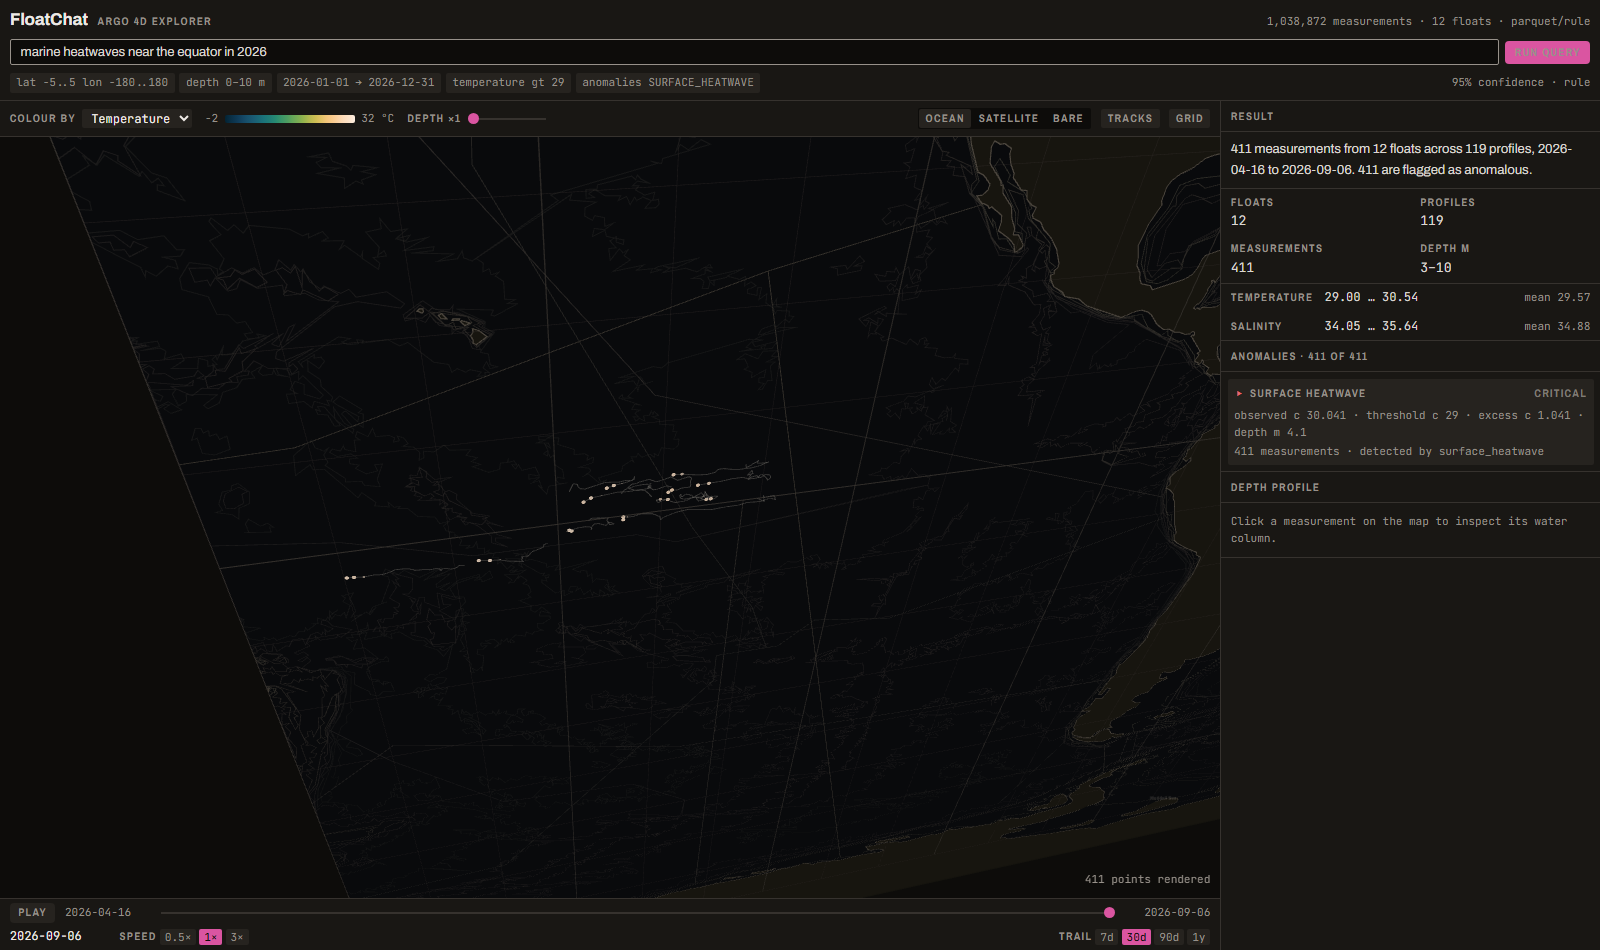
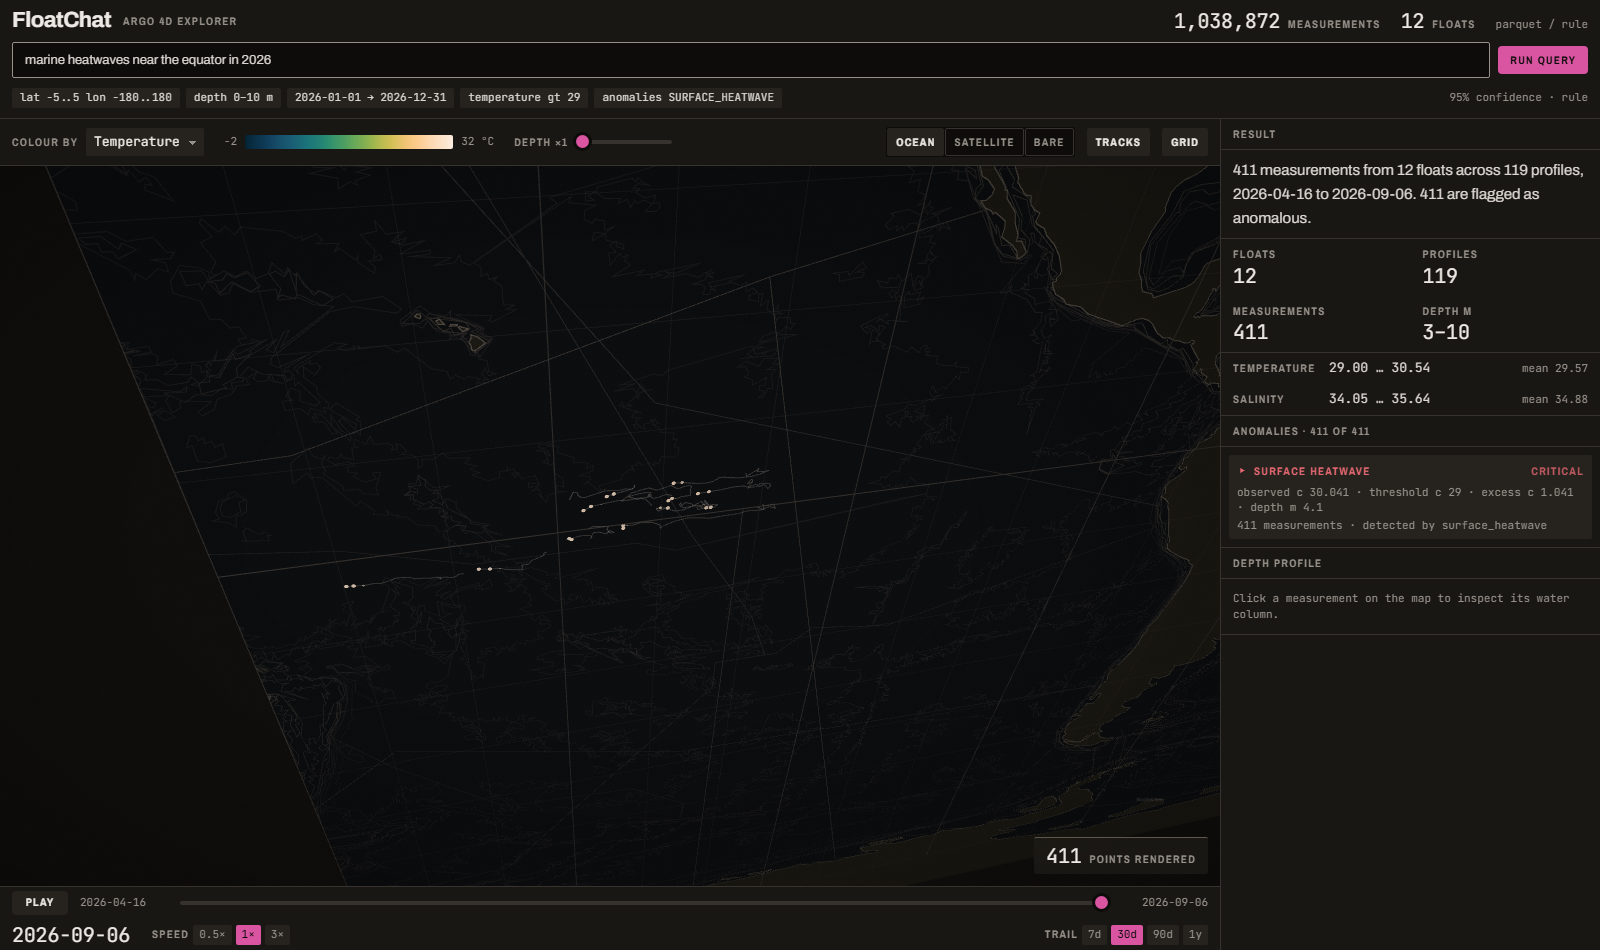
docs: add polish skill and screenshot harness, record P1
scripts/shoot.mjs renders the running app at 1920x1080, the agreed
capture target, and reports which fonts actually loaded. A visual change
that is never looked at is not verified by anything the other gates do.

.claude/skills/polish encodes the workflow: required reading, the
tokens-only / no-fetch-in-components / barrel-imports / never-hand-edit-
generated / transform-and-opacity rules, the shoot-look-iterate loop, and
the verify couplings a restyle can silently break.

PROGRESS and the polish plan record P1 as built, the three answered
questions, two deliberate divergences, and the finding P1 could not fix:
the demo query puts 411 points in a viewport framed for the whole east
Pacific, so the canvas is two-thirds empty and the new atmosphere has
nothing to act on. That is P3's camera problem.

diff --git a/.claude/skills/polish/SKILL.md b/.claude/skills/polish/SKILL.md
@@ -1,0 +1,134 @@
+---
+name: polish
+description: Make a visual change to the FloatChat frontend and verify it by actually looking at it. Use for any work on how the UI looks or feels — restyling a component, adding a layout or motion treatment, adjusting type, spacing, colour or the canvas atmosphere, working through a UI_POLISH_PLAN.md phase, or when asked to make a screen look better, more legible, or ready to record. Also use when a visual change has been made but not yet seen.
+---
+
+# Frontend visual work
+
+A visual change is not done when it compiles. It is done when you have looked at a
+screenshot of it and the gates pass. `tsc`, `next build` and a lit-pixel count cannot
+tell you that a panel is ugly, that a number is set two points too small, or that an
+overlay is swallowing clicks.
+
+## Required reading, before the first edit
+
+Read these in order. Do not skip them because a change looks small — every rule below
+comes from one of them, and the arguments matter more than the values.
+
+| File | What it settles |
+|---|---|
+| `DESIGN.md` | **Authoritative.** The aesthetic argument: why the neutrals are warm, why chrome is never blue, what glass is for, what motion is allowed. Every value has a stated reason; if you are about to contradict one, you need an ADR, not a preference. |
+| `frontend/design/tokens.ts` | The values themselves, and the only source of them. Mirrors `DESIGN.md` by hand. |
+| `UI_POLISH_PLAN.md` | The phase list, the decisions already made with the user (§4.1), and §3 — every place the existing code will fight a change. Read §3 before editing; it is a list of traps that have already been paid for once. |
+| `PROGRESS.md` | Which phase is current and what is actually verified. |
+
+Read `docs/extension-guide.md` too if the change adds a layer, colormap or theme.
+
+## The organising idea
+
+**Austere instrument, cinematic canvas.** The chrome is a flat, warm, matte instrument
+housing. The WebGL viewport is a hole cut in it, and the water inside is atmospheric —
+glow, grain, vignette, additive blending, camera motion. The boundary between the two
+is the whole visual argument.
+
+Practically, this decides most questions on its own:
+
+- Glow, grain, vignette and additive blending belong **inside the canvas only**.
+  Applying any of them to a panel is the single most damaging mistake available here.
+- Glass is a **boundary** material, permitted only on surfaces that sit **over the
+  canvas**, because what shows through them is the ocean. Never on the inspector, a
+  `Panel`, a readout grid or the header.
+- **No blue, teal or green in the chrome, ever.** Those hues are reserved for data
+  encoding. A blue pixel always means a measurement; a blue button would make the user
+  learn which blues mean something.
+
+## Hard rules
+
+These are from `CLAUDE.md` and are not style preferences. Nothing in this repo
+mechanically enforces most of them — there is no ESLint config in `frontend/` — so they
+hold only if you hold them.
+
+1. **Tokens only.** No hardcoded colour, spacing or type size in a component. Colours
+   come from `var(--color-*)`, type from a `text-*` utility, spacing from the 4px grid.
+   `text-[13px]`, `#DA55A1` and `p-[7px]` in a component are all bugs. If a value you
+   need does not exist, add it to `frontend/design/tokens.ts`, run `npm run theme`, and
+   use the generated utility — do not inline it "just here".
+2. **No `fetch` in a React component.** All network access goes through
+   `frontend/lib/api/client.ts`. The layering is `components → hooks → lib/api →
+   transport`, one-directional.
+3. **Features import each other only through `index.ts`.** A file in `features/map/`
+   may use `features/anomalies` only via `@/features/anomalies`, never by reaching into
+   its `components/` or `hooks/`. If the barrel does not exist yet, add it.
+4. **Never hand-edit generated files.** `frontend/types/argo.ts` and
+   `backend/app/schemas/argo.py` are generated from `contracts/*.schema.json` — use
+   `/sync-contracts`. `frontend/app/theme.generated.css` and `app/fonts.generated.css`
+   are generated by `scripts/build-theme.mjs` and `scripts/fetch-fonts.mjs` — edit
+   `design/tokens.ts` and regenerate.
+5. **Animate `transform` and `opacity` only.** Never `width`, `height`, `top`, `left`,
+   `box-shadow` or an SVG path length. Those animate on the main thread, and stuttering
+   chrome undermines the product's central claim — 60k points at 60fps — in the most
+   visible way available. Motion must explain a causal relationship; decoration does
+   not ship (ADR 0005). Reduced motion must land on the **final** state, never a
+   half-played one, and JS-driven motion must check `prefersReducedMotion()` itself
+   because the CSS blanket rule cannot reach it.
+
+## The loop
+
+Both servers must be running: backend on :8000, frontend on :3000.
+
+```
+make dev-backend                 # or: backend/.venv/Scripts/python -m uvicorn app.main:app --port 8000 --app-dir backend
+cd frontend && npm run dev
+```
+
+Then, for each change:
+
+1. **Shoot first, for a baseline.** `npm run shoot -- before`
+2. Make **one** coherent change.
+3. `npm run shoot -- <label>` and **read the PNG**. Actually look at it. Name what is
+   wrong with it before deciding it is fine — "it built" is not a review.
+4. Iterate on 2–3 until the frame is right, not until the code is written.
+
+`scripts/shoot.mjs` renders at **1920×1080**, the agreed capture target for the demo
+recording. Do not review composition at another size: the 380px inspector's fold lands
+somewhere different at every width. It also reports which fonts actually loaded — a
+frame that silently fell back to Arial looks plausible and is wrong.
+
+## Ending a run — both steps, every time
+
+1. **Take a final screenshot and look at it.** `npm run shoot -- after`
+2. **Run the gates.**
+
+```
+cd frontend && npm run typecheck && npm run build && npm run verify
+```
+
+`npm run verify` must report **18/18**. It counts its checks dynamically, so 18/18
+means adding none and removing none — a new check is a deliberate conversation with the
+user, not a side effect of a polish change.
+
+Three of its checks are easy to break from a visual change, and `UI_POLISH_PLAN.md`
+§3.5 lists every coupling in full:
+
+- **Every overlay over the canvas must be `pointer-events: none`.** `verify` scans the
+  WebGL framebuffer for a lit pixel and then clicks those coordinates through the DOM.
+  An overlay that swallows the click kills picking, and selection with it.
+- **No DOM overlay may tint the canvas.** The scan reads the framebuffer, the click
+  goes through the DOM; a tinting overlay desynchronises them.
+- **Keep these strings verbatim**: the `Natural language query` and `Time cursor`
+  aria-labels, the `Play through time` aria-label, the `Basemap style` group role and
+  its exact `Ocean` / `Satellite` / `Bare` button text, and the backend's
+  `summary.answer` rendered as plain selectable text.
+- **Zero console errors.** A React key warning, a deck.gl parameter warning or a 404 on
+  a font all fail the run.
+
+If a gate fails, report the actual output. Do not describe the work as done.
+
+## Committing
+
+Per `CLAUDE.md` you have standing authorization to push, but only when a phase gate
+passes or a coherent piece of work is finished and boots. A sweep that touches every
+component at once is the highest-regression-risk change available here — commit it
+**separately** from the feature work around it so a visual regression stays bisectable.
+
+Scope the commit `design`, `map`, `search`, `timeline` or `inspector`.

diff --git a/PROGRESS.md b/PROGRESS.md
@@ -6,10 +6,10 @@ anything. If you are a fresh session: read this, then `CLAUDE.md`, then `IMPLEME
 
 **Status:** P1–P7 + P9 complete. Full vertical slice runs end to end on real data.
 Now in a **frontend-only UI polish pass** for a recorded demo — plan and phase list in
-`UI_POLISH_PLAN.md`. **P0 done** (design direction + motion reversal, ADR 0005); **P1 next**
-(glass HUD chrome, canvas grain + vignette, tabular numerals, query loading state, and the
-token-driven type/spacing sweep agreed as `UI_POLISH_PLAN.md` §3.3 option (a)).
-**Last updated:** 2026-09-18, after UI polish P0 (see `BUILD_STATUS.md`)
+`UI_POLISH_PLAN.md`. **P0 and P1 done**; **P2 next** (the parse ribbon — word-level
+highlighting via a frontend phrase gazetteer, §4.1 decision 4, with the three containment
+rules in §5.3).
+**Last updated:** 2026-09-18, after UI polish P1 (see `UI_POLISH_PLAN.md` §6)
 
 **Verified ready:** backend venv installed · 12 real ARGO floats cached locally · demo query
 confirmed to return real results · `backend/data/{raw,.venv}` confirmed gitignored ·
@@ -17,9 +17,11 @@ confirmed to return real results · `backend/data/{raw,.venv}` confirmed gitigno
 
 **Network needed?** Backend: **no** — all Python deps are installed and all ARGO data is cached
 locally. Frontend: **yes, once** — `npm install` must fetch Next.js, deck.gl and React from the
-registry (verified reachable), and `npm run basemap` fetches the Natural Earth / NASA basemap
-assets. Both outputs are committed, so after they complete the whole build is offline-capable.
-The map draws no tiles at runtime — see `docs/adr/0004-offline-basemap.md`.
+registry (verified reachable); `npm run basemap` fetches the Natural Earth / NASA basemap
+assets and `npm run fonts` fetches the three type families. All three outputs are committed, so
+after they complete the whole build is offline-capable. The map draws no tiles at runtime (see
+`docs/adr/0004-offline-basemap.md`) and **the fonts are self-hosted as of UI polish P1** — the
+`fonts.googleapis.com` import is gone, so there is now no runtime network dependency at all.
 
 ---
 
@@ -33,7 +35,7 @@ Do not reopen these. They were decided with the user and are settled.
 | Sample data | **Equatorial Pacific (Niño 3.4 box)** | 5°S–5°N, 170°W–120°W. Makes the "marine heatwaves near the equator" example query in `PROJECT_CONTEXT.md` return real hot water. |
 | Build order | **Vertical slice first** | One query end-to-end (type → search → map dots → one chart) before deepening any layer. Every stopping point must be demonstrable. |
 | Theme scope | **Dark only** | Per `DESIGN.md`. No light or colorblind-safe theme this pass. |
-| Design system | **Chart Room** | `DESIGN.md` is authoritative and lints clean. `frontend/design/tokens.ts` derives from it — **by hand**: there is no generator, and no `tailwind.config.ts`. The DOM's palette is the `@theme` block in `globals.css`, a second hand-maintained copy. Change a colour in all three or in none. |
+| Design system | **Chart Room** | `DESIGN.md` is authoritative and lints clean. `frontend/design/tokens.ts` derives from it **by hand** — that step is still manual, and there is no `tailwind.config.ts` (this is Tailwind v4). Everything downstream of `tokens.ts` is **generated**: `scripts/build-theme.mjs` writes `app/theme.generated.css` (the `@theme` block, the type scale, the spacing base and the semantic utilities). The palette is no longer duplicated by hand — change it in `DESIGN.md` and `tokens.ts`, then `npm run theme`. |
 | Theme direction | **Austere instrument, cinematic canvas** | Chrome stays flat, warm, matte; glow/grain/vignette/additive belong inside the WebGL viewport only. Glass is permitted at the boundary alone. The no-blue-chrome rule survives. |
 | Motion | **Explanatory only** | Replaced the "don't animate the interface" rule. Motion must explain a causal relationship; decoration does not ship. `transform`/`opacity` only. See ADR 0005. |
 
@@ -142,7 +144,8 @@ passes** — never mark one done on assumption.
 ### Verified
 
 - **78 backend tests green**, ruff clean, `tsc --noEmit` clean, `next build` succeeds.
-- **`npm run verify` 18/18** in a real browser, including no console errors, after the basemap.
+- **`npm run verify` 18/18** in a real browser, including no console errors, after the basemap
+  and again after UI polish P1 — picking still works through the new canvas overlays.
 - **Basemap costs no frame time**: 60k points hold 59.9 fps in all three styles, measured
   against a `PERF_BASEMAP=Bare` control. See `BUILD_STATUS.md`.
 - Both providers pass the *same* 14-test contract suite. `DATA_PROVIDER=netcdf` serves
@@ -170,15 +173,27 @@ passes** — never mark one done on assumption.
 
 **Next actions, highest value first:**
 
-1. Optional depth: aggregation modes (`by_float`, `by_time_bucket`) are in `QuerySpec`
+1. **UI polish P2 — the parse ribbon.** `UI_POLISH_PLAN.md` §2 P2 and §5.3. Needs
+   `features/search/index.ts` (barrel) and `features/search/lib/attributeSpec.ts`.
+2. **UI polish P3 — camera choreography and additive blending.** This is the one that
+   fixes the frame: the demo query returns 411 points into a viewport framed for the
+   whole east Pacific, so two-thirds of the canvas is empty and P1's grain and vignette
+   have nothing to act on. See `UI_POLISH_PLAN.md` §6. Requires hoisting `viewState` out
+   of `MapCanvas` into the view store (§3.7).
+3. Optional depth: aggregation modes (`by_float`, `by_time_bucket`) are in `QuerySpec`
    but the engine ignores them; `list_floats` ignores its spec argument.
-2. Optional: a light theme, deliberately skipped this pass.
-3. Optional: frontend unit tests around the hooks layer.
+4. Optional: a light theme, deliberately skipped this pass.
+5. Optional: frontend unit tests around the hooks layer.
 
 Nothing is blocked. All plan gates that were defined are now met or explicitly skipped
 with an ADR.
 
-Working tree clean. Both servers were left running on :8000 and :3000.
+**Gotcha, cost time once:** never run `npm run build` while `next dev` is running. They
+share `frontend/.next`, and the build leaves the dev server serving 500s with
+`__webpack_modules__[moduleId] is not a function`. Stop dev, build, then restart dev —
+or the gates fail for a reason that has nothing to do with the code.
+
+Both servers were left running on :8000 and :3000.
 
 ## Push protocol
 

diff --git a/UI_POLISH_PLAN.md b/UI_POLISH_PLAN.md
@@ -476,16 +476,13 @@ change. Questions 5–7 remain open and do not block P0.
 | 3 | Sweep hardcoded type sizes and spacing onto token-driven utilities in P1? | **Yes.** §3.3 option (a). |
 | 4 | Parse-ribbon fidelity | **Word-level highlighting via a frontend phrase gazetteer.** §3.6 option (b) — chosen with the duplication cost understood. |
 
-### 4.2 Still open — not blocking
+### 4.2 Answered before P1
 
-5. **§3.2 — may I generate the `@theme` CSS block from `tokens.ts`** so the palette stops
-   existing in two hand-maintained places?
-
-6. **§3.9 — may I self-host the fonts?** Strongly recommended given the deliverable is a video.
-
-7. **Capture target.** Resolution and aspect for the recording — 1920×1080 or something taller?
-   It changes whether the 380px inspector and the anomaly panel fit above the fold, which
-   affects P1's layout decisions.
+| # | Question | **Decision** |
+|---|---|---|
+| 5 | §3.2 — generate the `@theme` CSS block from `tokens.ts`? | **Yes.** `scripts/build-theme.mjs` imports `design/tokens.ts` directly (Node 24 strips TS types) and writes `app/theme.generated.css`. The palette no longer exists in two hand-maintained places, and the P1 type scale, spacing base and glass values are single-source from the start. Runs automatically before `npm run dev` and `npm run build`. |
+| 6 | §3.9 — self-host the fonts? | **Yes.** `scripts/fetch-fonts.mjs` writes `public/fonts/` + `app/fonts.generated.css`. Archivo and Archivo Narrow are variable fonts, so 400 and 700 share one file: **three files, 83 KB, latin subset only**. The `fonts.googleapis.com` import is gone and the build has no runtime network dependency at all. |
+| 7 | Capture target | **1920×1080.** `scripts/shoot.mjs` renders at exactly this and nothing else — composition reviewed at another width is a frame that will never be recorded. Note `verify-ui.mjs` still uses 1600×950; that is its own fixture and was deliberately left alone. |
 
 ---
 
@@ -566,3 +563,58 @@ contradiction to record.
 ### 5.5 Ready to start
 
 P0 is unblocked. Questions 5–7 do not gate it; I will raise 7 again before P1's layout work.
+
+---
+
+## 6. P1 as built
+
+Shipped. `npm run verify` **18/18**, `tsc` clean, `next build` clean, screenshots in
+`frontend/verification/shots/`.
+
+What landed beyond the file list in §2:
+
+- **`scripts/build-theme.mjs`** and **`scripts/fetch-fonts.mjs`** (decisions 5 and 6), plus
+  **`scripts/shoot.mjs`** — a 1920×1080 screenshot harness, because a visual change that is
+  never looked at is not verified by anything the other gates do. `npm run shoot -- <label>`.
+- **`.claude/skills/polish/`** — the workflow skill for visual work: required reading, the
+  token/layering/motion rules, the shoot-look-iterate loop, and the couplings in §3.5 that a
+  restyle can silently break.
+- **`features/anomalies/index.ts`** — the first feature barrel, closing the §3.4 violation the
+  inspector was committing. P2–P5 add the rest.
+- `layout.profileChartHeight` added to `tokens.ts`; the Recharts SVG font sizes and corner
+  radius now read from the token scale instead of being typed as numbers.
+
+Two deliberate divergences from §2, both recorded rather than silent:
+
+1. **`TimeScrubber` did not get the glass treatment.** §5.1 defines glass as a boundary
+   material, permitted only where the canvas shows through. The scrubber is a full-width
+   instrument row *below* the viewport — nothing shows through it — so glassing it would have
+   contradicted the thesis the same section establishes. It got the weight it actually needed
+   instead: a 4px track (up from a 2px hairline) with a ringed thumb, and the cursor date set
+   at the display data size. The `.glass` utility is used by the two HUD readouts that really
+   do sit over the canvas.
+2. **`type.dataHero` (40px) is defined but unused.** The four inspector summary figures and
+   the header counts are set at `dataLg` (20px). 40px numerals do not fit two-up in a 380px
+   column, and in the header they would have pushed the search row down. `dataHero` is left
+   for P2/P3, where the parse ribbon and the arrival have room for it.
+
+### What P1 could not fix, and P3 must
+
+The canvas is still mostly empty, and on a 1080p frame that is the dominant visual fact —
+more so than the flat lighting §1.4 called out.
+
+The seeded demo query returns **411 points**, not 60,000. They land in one small cluster near
+the equator while the camera sits at a fixed `INITIAL_VIEW` framing the whole east Pacific and
+most of North America. Roughly two-thirds of the viewport is empty near-black.
+
+This also makes the P1 atmosphere nearly invisible, which is worth stating plainly rather than
+discovering again later: both overlays are mounted, correctly sized and `pointer-events: none`
+(confirmed in the live DOM — `elementFromPoint` at canvas centre still returns the canvas), but
+a 32% black vignette over a `#090A0C` basemap is close to a no-op, and 3.5% screen grain over
+near-black lifts by a few levels. **The tokens are not wrong and should not be raised past
+their documented caps** — the caps exist so neither effect competes with a dim measurement.
+They have nothing to act on yet.
+
+The fix belongs to P3 and is a camera problem before it is a rendering one: fit the arrival
+flight to the result bounds so 411 points fill the frame, then let additive blending give the
+cluster luminance for the grain and vignette to sit against.

diff --git a/CLAUDE.md b/CLAUDE.md
@@ -29,6 +29,7 @@ each encodes the extension-point recipe plus the gate that must pass.
 | `/add-parser` | New or swapped NL query parser (rule, LLM tool-calling, hybrid, local). EP-2. |
 | `/add-layer` | New deck.gl layer, GLSL shader, or colormap. EP-3. |
 | `/ship` | Verify gates, security-sweep the diff, commit, push. |
+| `/polish` | Any frontend **visual** work — restyling, layout, type, colour, motion, canvas atmosphere, a `UI_POLISH_PLAN.md` phase. Enforces the token/layering/motion rules and ends every run with a screenshot plus `npm run verify`. |
 
 **Design work uses `/design-md-planner`** (user-level skill), not `ui-ux-design-enhancer` — the
 user has chosen it explicitly. It authors `DESIGN.md` at the repo root: YAML design tokens plus
@@ -66,8 +67,13 @@ the entire point of the build.
      `fetch`.** All network access goes through `lib/api/client.ts`.
 
 5. **No hardcoded colors, spacing, or type sizes in components.** Everything comes from
-   `frontend/design/tokens.ts`, which also feeds `tailwind.config.ts`. Re-theming must require
-   zero component edits.
+   `frontend/design/tokens.ts`. There is no `tailwind.config.ts` — this is Tailwind v4, and the
+   theme is CSS: `scripts/build-theme.mjs` reads `tokens.ts` and writes
+   `frontend/app/theme.generated.css` (the `@theme` block, type scale, spacing base and the
+   semantic utility layer). It runs automatically before `npm run dev` and `npm run build`.
+   **Never hand-edit `app/theme.generated.css` or `app/fonts.generated.css`** — edit `tokens.ts`
+   and regenerate. `text-[13px]`, `#DA55A1` or `p-[7px]` in a component is a bug; if the value
+   you need does not exist, add it to `tokens.ts`. Re-theming must require zero component edits.
 
 6. **Features are isolated.** A file in `features/map/` may import from another feature only via
    that feature's `index.ts`. No reaching into internals.
@@ -89,6 +95,18 @@ make test           # pytest + vitest
 make lint           # ruff + mypy + eslint + import-linter boundary checks
 make seed           # load sample ARGO data into backend/data/samples
 ```
+
+Frontend-only, run from `frontend/` in PowerShell:
+
+```
+npm run theme       # regenerate app/theme.generated.css from design/tokens.ts
+npm run fonts       # re-fetch the self-hosted type families into public/fonts/
+npm run shoot -- x  # screenshot the running app at 1920x1080 -> verification/shots/x.png
+npm run verify      # 18-check Playwright smoke test; must stay 18/18
+```
+
+**Never run `npm run build` while `next dev` is running.** They share `frontend/.next` and the
+build leaves the dev server serving 500s. Stop dev, build, restart dev.
 
 Config switches live in `.env` (documented in `.env.example`):
 `DATA_PROVIDER`, `NLP_PARSER`, `PARSER_FALLBACK_CHAIN`, `ANOMALY_DETECTORS`,
